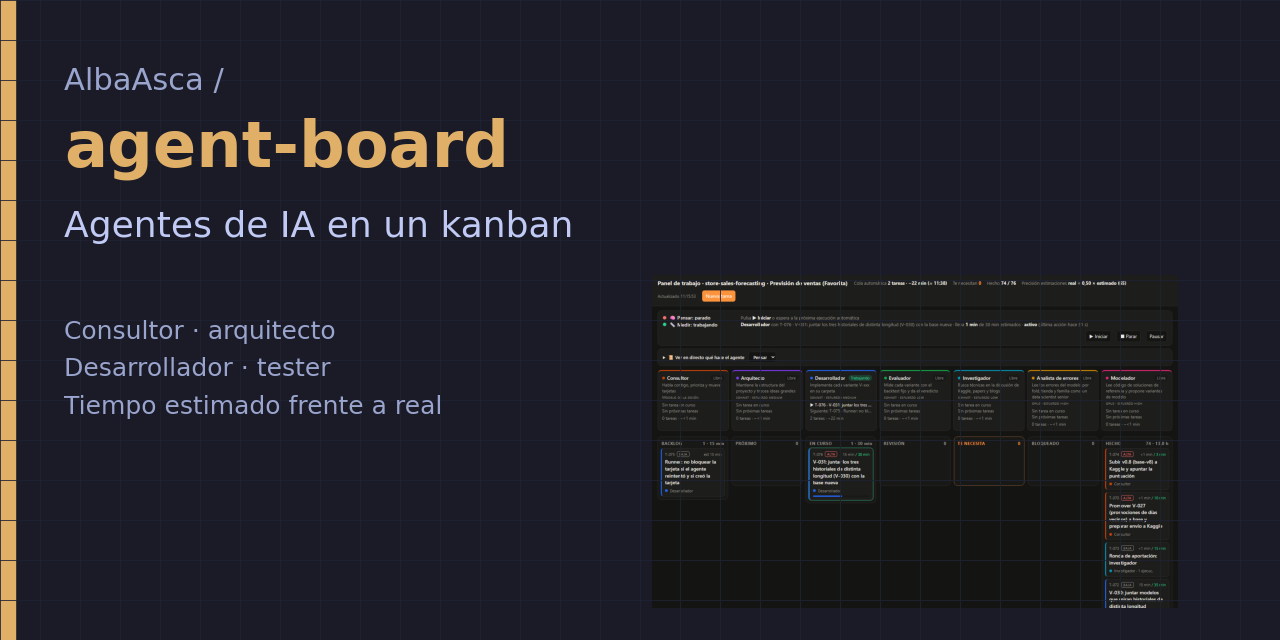
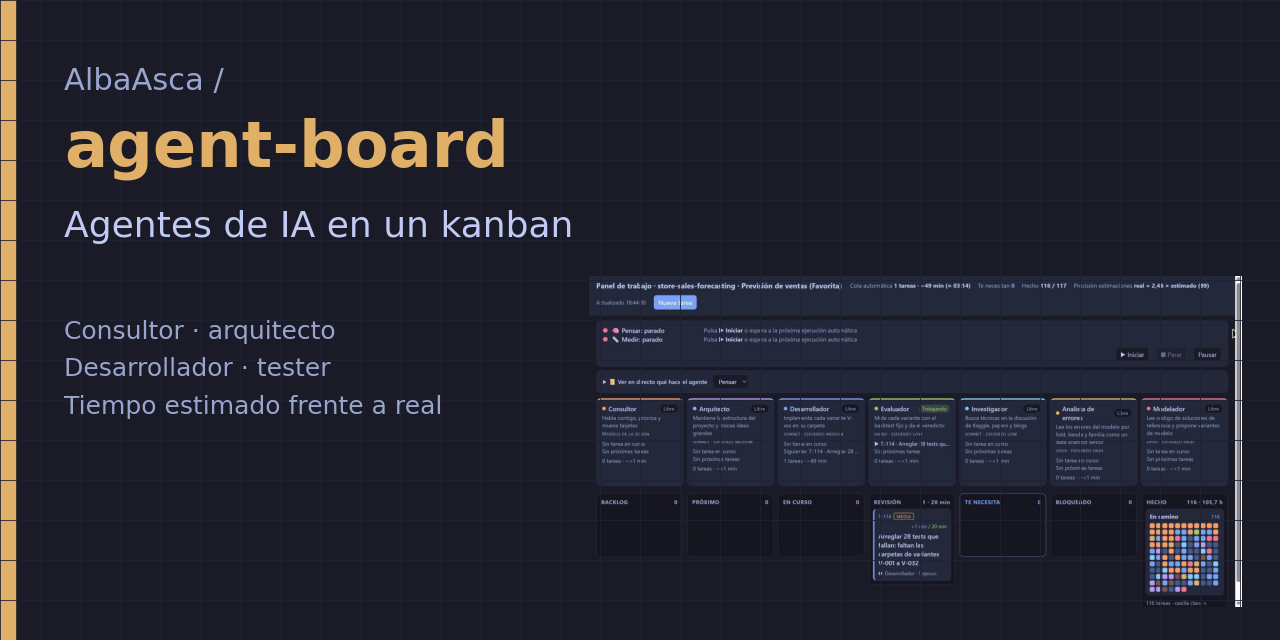
style: refresh social cards and bust image cache after Tokyo Night restyle

Changed region(s): [[0.4688, 0.4062, 0.9688, 0.9688], [0.4688, 0.7812, 0.5, 0.8125]]

diff --git a/README.md b/README.md
@@ -20,26 +20,26 @@ Construyo pipelines de datos, servicios Spring Boot y equipos de **agentes de IA
 **Lambda → S3 (Parquet) → dbt + DuckDB → panel**, con Terraform, alarmas, DLQ y despliegue desde GitHub por
 **OIDC sin claves**. Construido en LocalStack a coste 0 y probado en una cuenta real de AWS por **< 0,01 $**.
 
-<a href="https://github.com/AlbaAsca/aws-data-pipeline"><img src="https://github.com/AlbaAsca/aws-data-pipeline/raw/main/docs/img/temperature.gif?v=2" alt="60 días de temperatura de seis ciudades, dibujándose" width="100%"></a>
+<a href="https://github.com/AlbaAsca/aws-data-pipeline"><img src="https://github.com/AlbaAsca/aws-data-pipeline/raw/main/docs/img/temperature.gif?v=3" alt="60 días de temperatura de seis ciudades, dibujándose" width="100%"></a>
 
 ### ☕ [WebFluxTaskManager](https://github.com/AlbaAsca/WebFluxTaskManager) · backend Java reactivo
 API REST de tareas con **Java 21, Spring Boot 4 y WebFlux** sobre MongoDB reactivo: HATEOAS, errores RFC 9457,
 seguridad por roles y **cambios en tiempo real por Server-Sent Events**. Tests con `@WebFluxTest`, `StepVerifier`
 y **Testcontainers** contra un MongoDB real en el CI.
 
-<a href="https://github.com/AlbaAsca/WebFluxTaskManager"><img src="https://github.com/AlbaAsca/WebFluxTaskManager/raw/main/docs/img/hero.svg" alt="WebFlux Task Manager: lo que cambia un usuario lo ven todos al instante" width="100%"></a>
+<a href="https://github.com/AlbaAsca/WebFluxTaskManager"><img src="https://github.com/AlbaAsca/WebFluxTaskManager/raw/main/docs/img/hero.svg?v=2" alt="WebFlux Task Manager: lo que cambia un usuario lo ven todos al instante" width="100%"></a>
 
 ### 📈 [store-sales-forecasting](https://github.com/AlbaAsca/store-sales-forecasting) · series temporales en Kaggle
 Previsión de 1.782 series con validación temporal honesta: **0,45751 → 0,38839 RMSLE (−15 %)** en 10 versiones.
 45 ideas probadas como experimentos con el criterio fijado antes de medir, también las 30 que no entraron.
 
-<a href="https://github.com/AlbaAsca/store-sales-forecasting"><img src="https://github.com/AlbaAsca/store-sales-forecasting/raw/main/docs/img/progreso.png" alt="Evolución de la nota en Kaggle, el backtest y el holdout en cada versión" width="100%"></a>
+<a href="https://github.com/AlbaAsca/store-sales-forecasting"><img src="https://github.com/AlbaAsca/store-sales-forecasting/raw/main/docs/img/progreso.png?v=2" alt="Evolución de la nota en Kaggle, el backtest y el holdout en cada versión" width="100%"></a>
 
 ### 🤖 [agent-board](https://github.com/AlbaAsca/agent-board) · un equipo de agentes de IA sobre un kanban
 Consultor, arquitecto, desarrollador, tester…: cada tarea guarda el tiempo estimado frente al real y el panel calibra
 las estimaciones.
 
-<a href="https://github.com/AlbaAsca/agent-board"><img src="https://github.com/AlbaAsca/agent-board/raw/main/docs/panel.png" alt="Panel de agent-board: agentes, cola de tareas y kanban con tiempo estimado frente a real" width="100%"></a>
+<a href="https://github.com/AlbaAsca/agent-board"><img src="https://github.com/AlbaAsca/agent-board/raw/main/docs/panel.png?v=2" alt="Panel de agent-board: agentes, cola de tareas y kanban con tiempo estimado frente a real" width="100%"></a>
 
 #### 🧰 Más
 | Proyecto | Qué hace |
